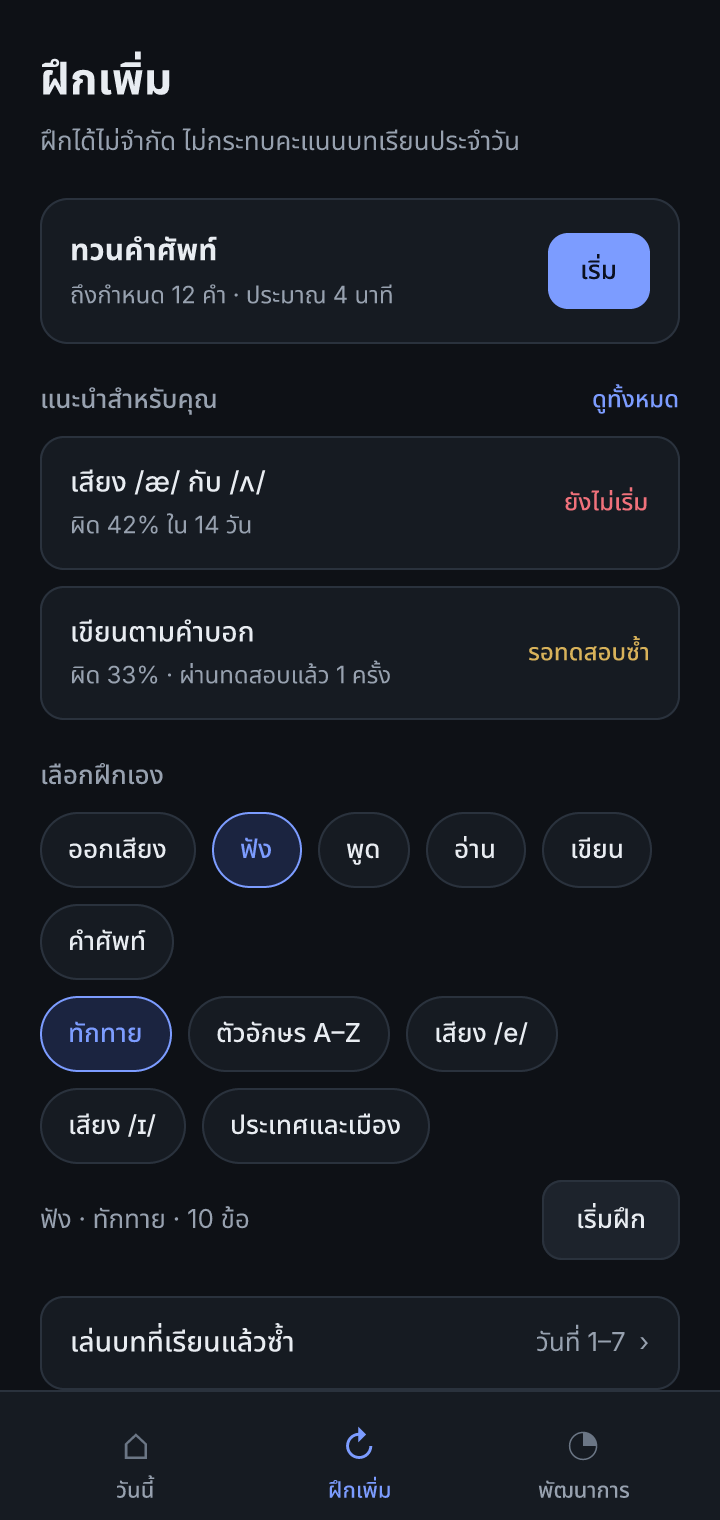
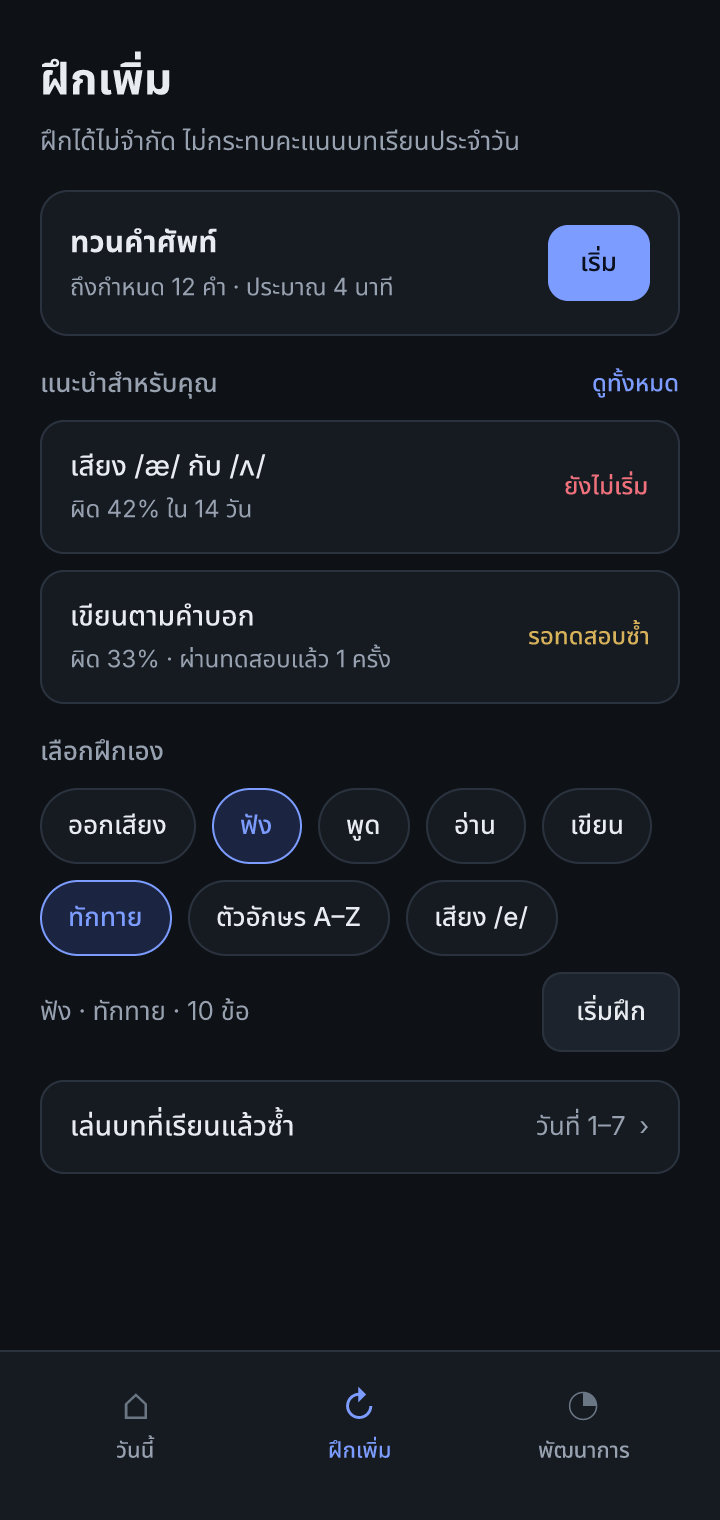
design: combined navigation D (floating bar with large current item)

diff --git a/design/ui-dark-v1/build.py b/design/ui-dark-v1/build.py
@@ -271,7 +271,33 @@ def settings(x, c, label, selected):
     text(foot, "ธีมจำไว้ในอุปกรณ์นี้ แต่ละเครื่องตั้งต่างกันได้", 12, c["faint"], TH, "Regular", textAlign="center", sizingH="fill")
     return s
 
+NAVSTYLE = ["tabs"]
+
+def nav_float(parent, c, active):
+    """Floating capsule (A) with a large raised circle for the current menu (C)."""
+    wrap = col(parent, "Floating nav wrap", pad=[0, 20, 16, 20])
+    inner = frame(wrap, "Floating nav", layout="horizontal", sizingH="fill", sizingV="hug", crossAlign="max",
+                  mainAlign="spaceBetween", padding=[0, 14, 9, 14], fill="none")
+    frame(inner, "Capsule", w=320, h=64, x=0, y=22, absolute=True, cornerRadius=32, fill=c["surface2"],
+          stroke=c["border"], strokeWeight=1)
+    for icon, lab in [("⌂", "วันนี้"), ("↻", "ฝึกเพิ่ม"), ("◔", "พัฒนาการ"), ("⚙", "ตั้งค่า")]:
+        on = lab == active
+        if on:
+            t = col(inner, f"Item / {lab} (current)", gap=3, sizingH="hug", crossAlign="center")
+            circ = frame(t, "Current", layout="horizontal", mainAlign="center", crossAlign="center", w=58, h=58,
+                         sizingH="fixed", sizingV="fixed", cornerRadius=29, fill=c["accent"], stroke=c["bg"], strokeWeight=4,
+                         strokeAlign="outside")
+            text(circ, icon, 22, c["accentText"], IPA, "Regular")
+            text(t, lab, 11, c["accent"], TH, "Bold")
+        else:
+            t = col(inner, f"Item / {lab}", gap=3, pad=[0, 6, 3, 6], sizingH="hug", crossAlign="center")
+            text(t, icon, 18, c["muted"], IPA, "Regular")
+            text(t, lab, 11, c["muted"], TH, "Medium")
+    return wrap
+
 def navbar(parent, c, active):
+    if NAVSTYLE[0] == "float":
+        return nav_float(parent, c, active)
     bar = row(parent, "Tab bar", gap=0, pad=[8, 12, 20, 12], fill=c["surface"], stroke=c["border"], strokeWeight=1,
               strokeSides=[True, False, False, False])
     for icon, lab in [("⌂", "วันนี้"), ("↻", "ฝึกเพิ่ม"), ("◔", "พัฒนาการ")]:
@@ -300,7 +326,7 @@ def practice(x, c, label):
     head = col(top, "Header", gap=4, pad=[24, 20, 8, 20])
     text(head, "ฝึกเพิ่ม", 22, c["text"], TH, "Bold")
     text(head, "ฝึกได้ไม่จำกัด ไม่กระทบคะแนนบทเรียนประจำวัน", 13, c["muted"], TH, "Regular")
-    body = col(top, "Body", gap=18, pad=[10, 20, 0, 20])
+    body = col(top, "Body", gap=14, pad=[6, 20, 0, 20])
     due = row(body, "Vocab review", gap=12, pad=14, fill=c["surface"], cornerRadius=14, stroke=c["border"], strokeWeight=1, mainAlign="spaceBetween")
     dl = col(due, "Text", gap=2)
     text(dl, "ทวนคำศัพท์", 15, c["text"], TH, "Bold")
@@ -319,10 +345,10 @@ def practice(x, c, label):
     sec2 = col(body, "Pick your own", gap=8)
     section_title(sec2, c, "เลือกฝึกเอง")
     w1 = frame(sec2, "Skill chips", layout="horizontal", wrap=True, gap=8, crossGap=8, sizingH="fill", sizingV="hug", fill="none")
-    for i, lab in enumerate(["ออกเสียง", "ฟัง", "พูด", "อ่าน", "เขียน", "คำศัพท์"]):
+    for i, lab in enumerate(["ออกเสียง", "ฟัง", "พูด", "อ่าน", "เขียน"]):
         chip(w1, c, lab, on=(i == 1))
     w2 = frame(sec2, "Topic chips", layout="horizontal", wrap=True, gap=8, crossGap=8, sizingH="fill", sizingV="hug", fill="none")
-    for i, lab in enumerate(["ทักทาย", "ตัวอักษร A–Z", "เสียง /e/", "เสียง /ɪ/", "ประเทศและเมือง"]):
+    for i, lab in enumerate(["ทักทาย", "ตัวอักษร A–Z", "เสียง /e/"]):
         chip(w2, c, lab, on=(i == 0))
     r = row(sec2, "Start custom", gap=10, mainAlign="spaceBetween")
     text(r, "ฟัง · ทักทาย · 10 ข้อ", 13, c["muted"], TH, "Regular")
@@ -468,7 +494,7 @@ def home_nav_variant(x, c, label, kind):
             st = col(stats, f"Stat / {small}", gap=4, pad=14, fill=c["surface"], cornerRadius=14, stroke=c["border"], strokeWeight=1)
             text(st, big, 18, c["text"], TH, "Bold")
             text(st, small, 11, c["muted"], TH, "Regular", sizingH="fill", textAutoResize="height")
-        (nav_pill if kind == "pill" else nav_center)(s, c, "วันนี้")
+        {"pill": nav_pill, "center": nav_center, "float": nav_float}[kind](s, c, "วันนี้")
     return s
 
 GAP = 420
@@ -486,6 +512,11 @@ progress_screen(10 * GAP + 180, DARK, "11 · พัฒนาการ")
 home_nav_variant(11 * GAP + 300, DARK, "เมนูแบบ A · แถบลอยทรงแคปซูล (4 ปุ่ม รวมตั้งค่า)", "pill")
 home_nav_variant(12 * GAP + 300, DARK, "เมนูแบบ B · ไม่มีแถบล่าง ใช้หน้าแรกเป็นศูนย์กลาง", "hub")
 home_nav_variant(13 * GAP + 300, DARK, "เมนูแบบ C · ปุ่มเรียนต่ออยู่กลางแถบ", "center")
+NAVSTYLE[0] = "float"
+home_nav_variant(14 * GAP + 420, DARK, "เมนูแบบ D · ลอยแบบ A + เน้นเมนูปัจจุบันแบบ C · วันนี้", "float")
+practice(15 * GAP + 420, DARK, "เมนูแบบ D · อยู่ที่ ฝึกเพิ่ม")
+progress_screen(16 * GAP + 420, DARK, "เมนูแบบ D · อยู่ที่ พัฒนาการ")
+home_nav_variant(17 * GAP + 420, LIGHT, "เมนูแบบ D · โหมดสว่าง", "float")
 
 json.dump(steps, open(sys.argv[1], "w"), ensure_ascii=False, indent=0)
 print(len(steps), "steps")

diff --git a/design/README.md b/design/README.md
@@ -49,3 +49,10 @@ figcraft-cli export ui-dark-v1.figcraft --out screens --scale 2
 สคริปต์อ้าง id ของ layer ตามลำดับที่สร้าง (เริ่มที่ 2) จึงต้องรันกับเอกสารใหม่เท่านั้น
 
 หน้าจอในข้อเสนอนี้มีข้อมูลที่แอปยังไม่มี (จำนวนคำที่เรียนแล้ว, คะแนนบทล่าสุด, "ควรฝึกเพิ่ม", ระดับโดยประมาณ) ซึ่งมาจากสูตรใน `docs/PROGRESS.md` ที่ยังไม่ได้ต่อกับหน้าจอ
+
+### เมนูหลัก (ผู้ใช้เลือก 2026-11-25)
+เสนอ 3 แบบ (A แถบลอยทรงแคปซูล, B หน้าแรกเป็นศูนย์กลาง, C ปุ่มเรียนต่ออยู่กลางแถบ; ดู `ui-dark-v1/nav-compare.png`) ผู้ใช้ชอบ "ลอยแบบ A" และ "เน้นเมนูปัจจุบันให้ใหญ่แบบ C" จึงรวมเป็น **แบบ D** (`ui-dark-v1/nav-d-combined.png`, `screens/13-nav-d-*.png`):
+- แถบลอยทรงแคปซูลเหนือขอบล่าง มี 4 เมนู: วันนี้, ฝึกเพิ่ม, พัฒนาการ, ตั้งค่า ทุกเมนูมีไอคอนและชื่อ
+- เมนูที่อยู่ตอนนี้เป็นวงกลมสีเน้นขนาดใหญ่ยกขึ้นเหนือแถบ พร้อมชื่อสีเน้นตัวหนา
+- ไม่แสดงแถบเมนูในหน้าเล่นบทเรียน
+
